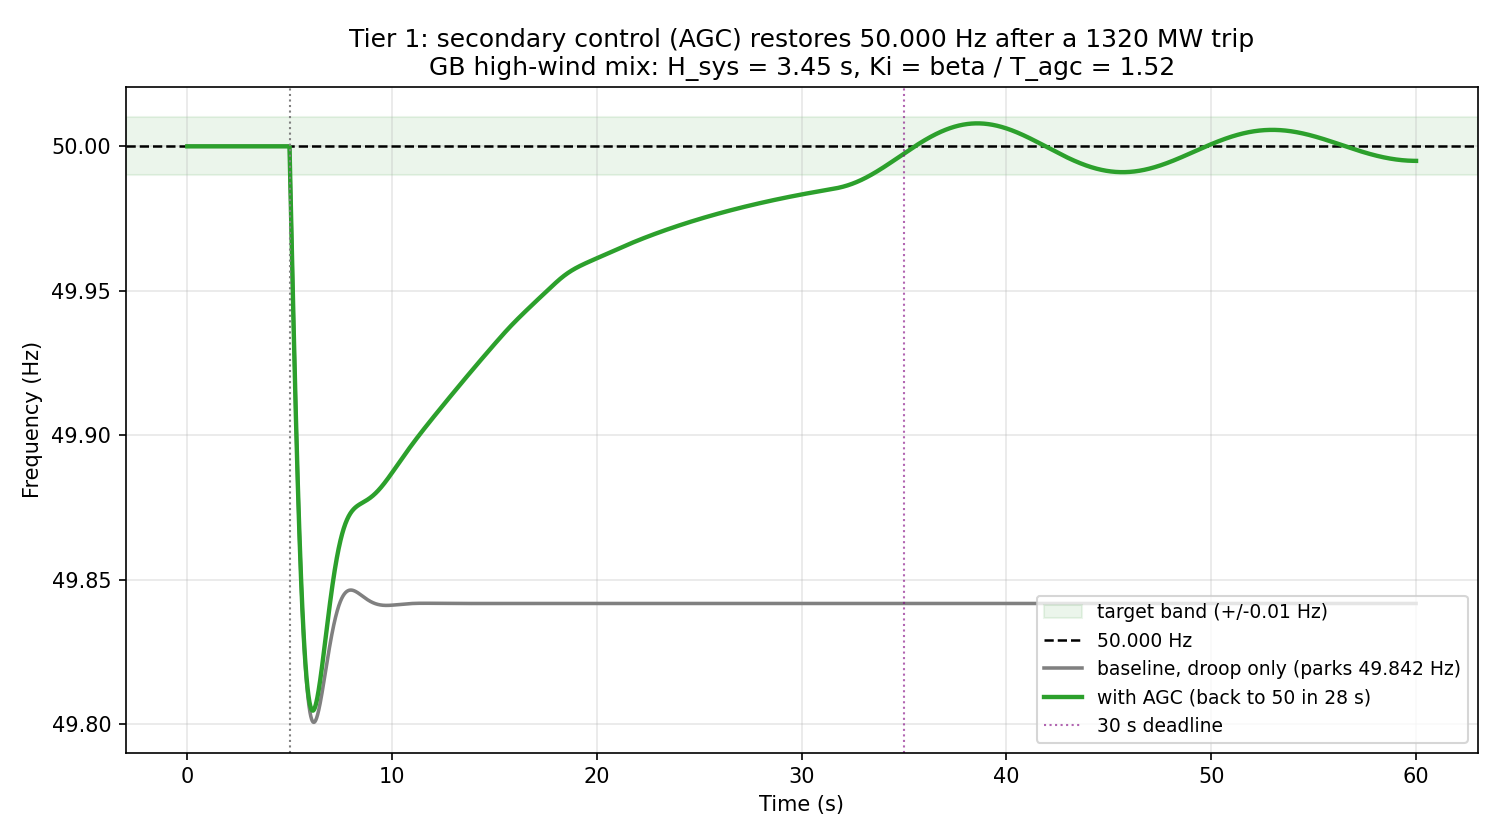
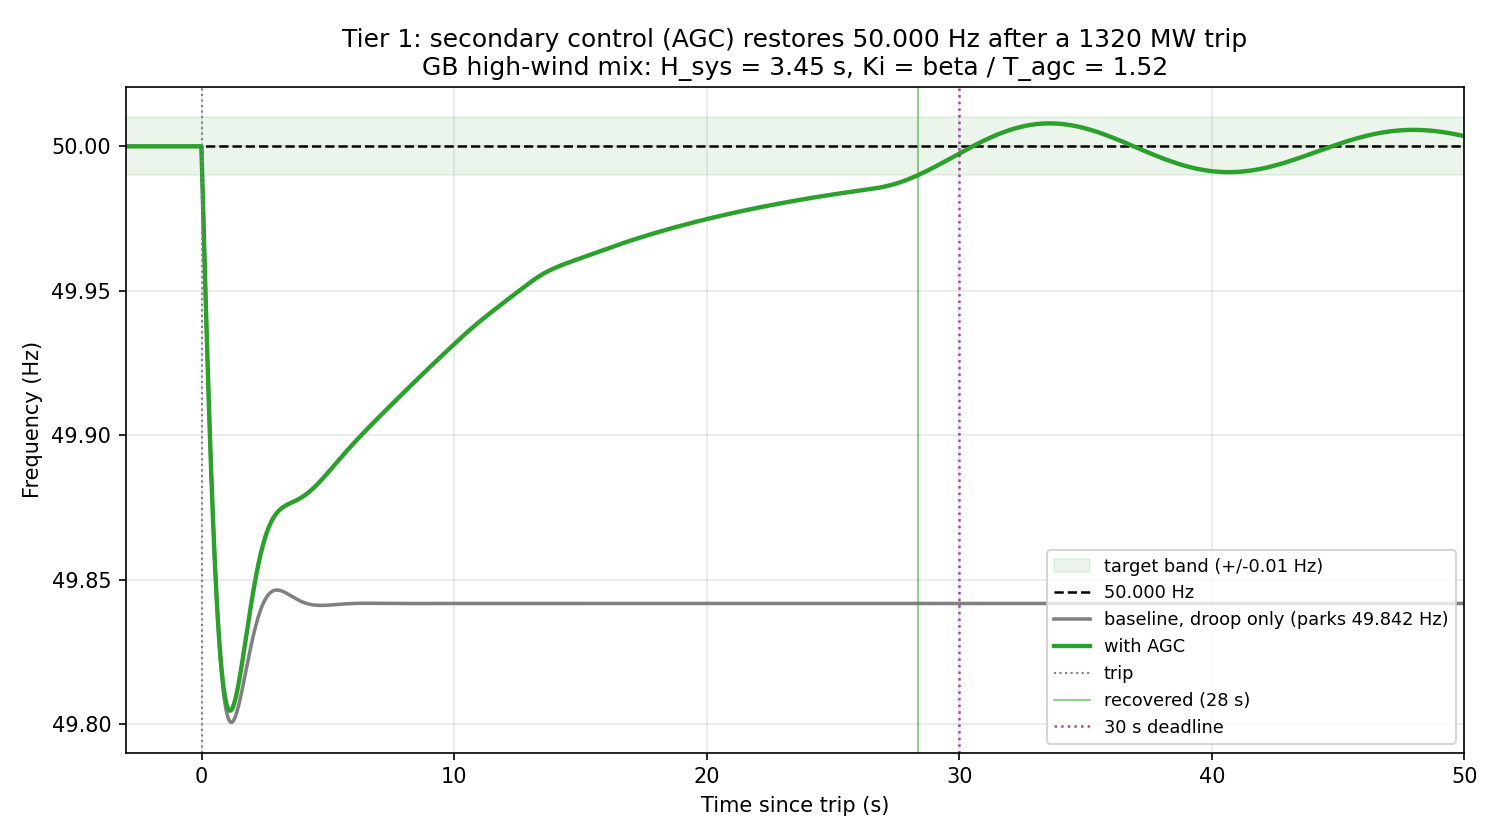
Rebase recovery plot time

diff --git a/make_tier1_figures.py b/make_tier1_figures.py
@@ -13,25 +13,31 @@ PLOTS = os.path.join(ROOT, "plots")
 os.makedirs(RESULTS, exist_ok=True)
 os.makedirs(PLOTS, exist_ok=True)
 
-df, m = run_gen_trip(loss_mw=1320.0, duration=60.0, trip_time=5.0, t_agc=10.0)
+TRIP = 5.0
+df, m = run_gen_trip(loss_mw=1320.0, duration=60.0, trip_time=TRIP, t_agc=10.0)
 
 csv_path = os.path.join(RESULTS, "tier1_gen_trip.csv")
 df.to_csv(csv_path, index=False)
 
+# time measured from the trip, so the axis reads what the labels say
+x = df.time_s - TRIP
+
 fig, ax = plt.subplots(figsize=(10, 5.6))
 ax.axhspan(49.99, 50.01, color="green", alpha=0.08, label="target band (+/-0.01 Hz)")
 ax.axhline(50.0, ls="--", color="black", lw=1.2, label="50.000 Hz")
-ax.plot(df.time_s, df.freq_baseline_hz, color="grey", lw=1.7,
+ax.plot(x, df.freq_baseline_hz, color="grey", lw=1.7,
         label=f"baseline, droop only (parks {m['baseline_settle_hz']:.3f} Hz)")
-ax.plot(df.time_s, df.freq_agc_hz, color="tab:green", lw=2.1,
-        label=f"with AGC (back to 50 in {m['agc_recovery_s']:.0f} s)")
-ax.axvline(5.0, ls=":", color="gray", lw=1.0)
-ax.axvline(35.0, ls=":", color="purple", lw=1.0, alpha=0.6, label="30 s deadline")
-ax.set_xlabel("Time (s)")
+ax.plot(x, df.freq_agc_hz, color="tab:green", lw=2.1, label="with AGC")
+ax.axvline(0.0, ls=":", color="gray", lw=1.0, label="trip")
+ax.axvline(m["agc_recovery_s"], ls="-", color="tab:green", lw=1.0, alpha=0.5,
+           label=f"recovered ({m['agc_recovery_s']:.0f} s)")
+ax.axvline(30.0, ls=":", color="purple", lw=1.2, alpha=0.7, label="30 s deadline")
+ax.set_xlim(-3, 50)
+ax.set_xlabel("Time since trip (s)")
 ax.set_ylabel("Frequency (Hz)")
 ax.set_title("Tier 1: secondary control (AGC) restores 50.000 Hz after a 1320 MW trip\n"
              f"GB high-wind mix: H_sys = {m['H_sys_s']:.2f} s, Ki = beta / T_agc = {m['Ki']:.2f}")
-ax.legend(loc="lower right", fontsize=9)
+ax.legend(loc="lower right", fontsize=8.5)
 ax.grid(alpha=0.3)
 fig.tight_layout()
 png_path = os.path.join(PLOTS, "tier1_recovery.png")